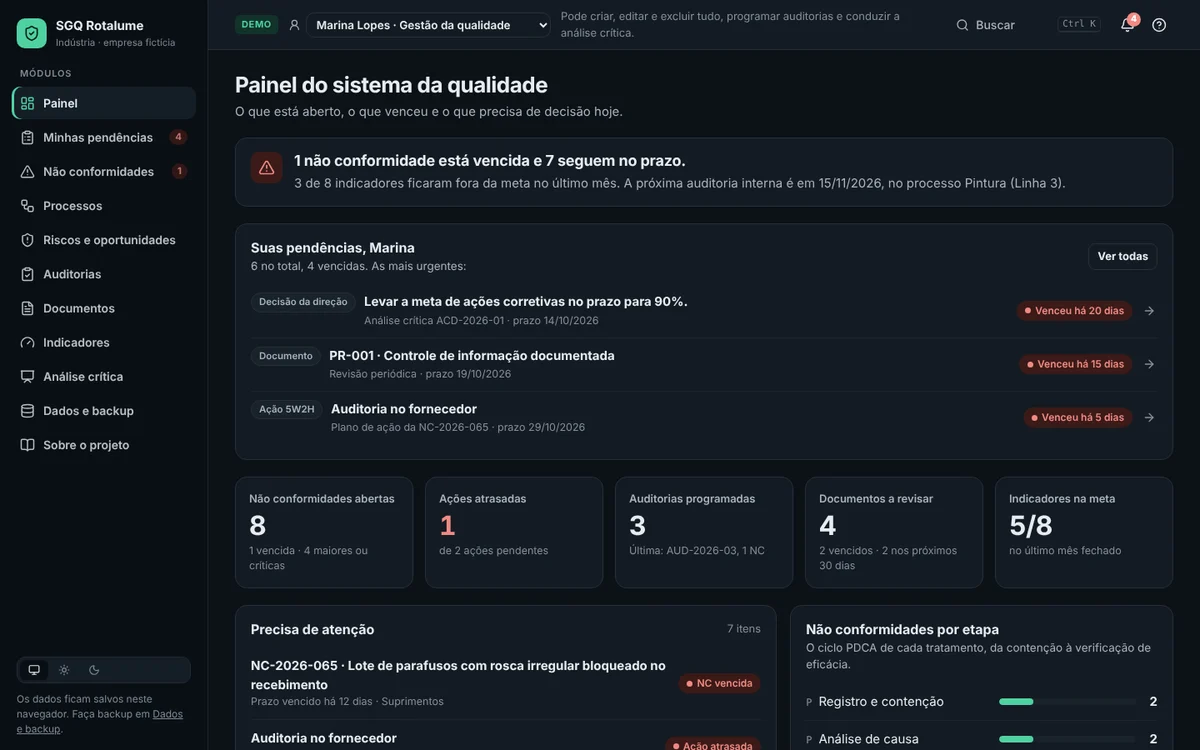
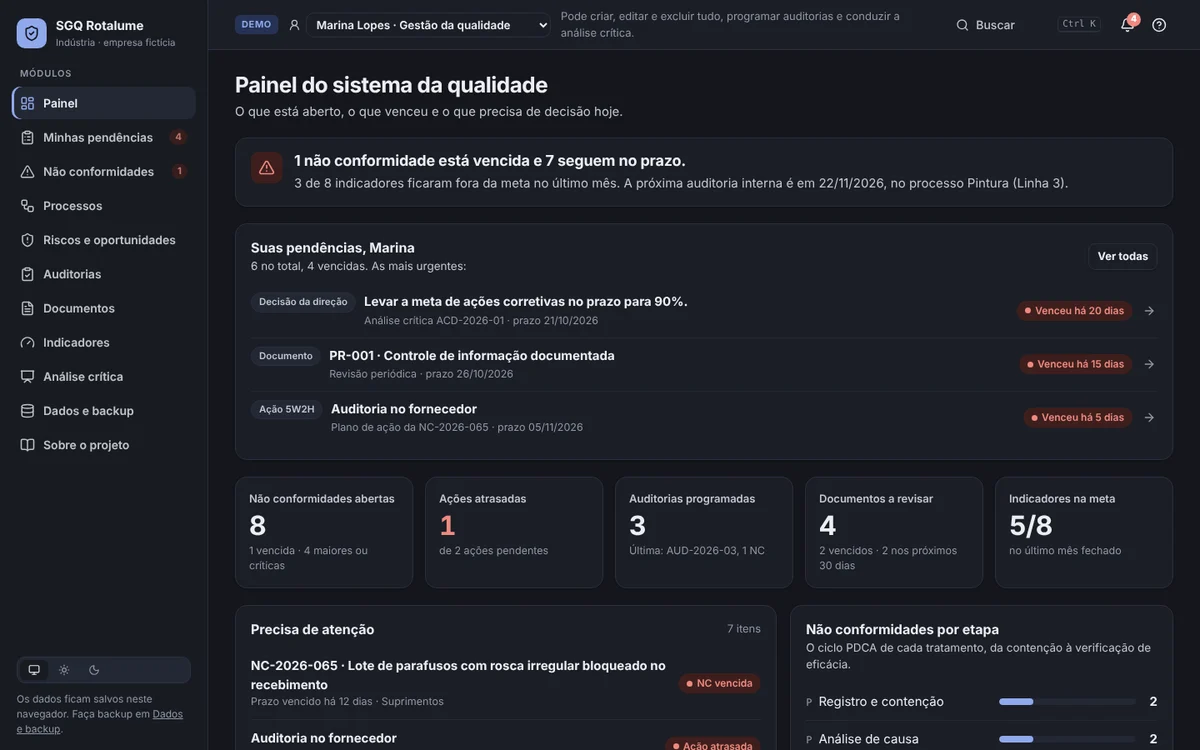
Adiciona o painel de Service Desk e atualiza as imagens dos projetos
Service Desk entra no fim da lista de projetos. Imagens de qualidade,
logística e SGQ refeitas com a nova identidade visual da Rotalume.

Claude-Session: https://claude.ai/code/session_013ScHhcjfMfb2SFCajT6Cio

diff --git a/src/content.ts b/src/content.ts
@@ -10,6 +10,8 @@ import qLight from '@/assets/projects/qualidade-light.webp';
 import qDark from '@/assets/projects/qualidade-dark.webp';
 import sgqLight from '@/assets/projects/sgq-light.webp';
 import sgqDark from '@/assets/projects/sgq-dark.webp';
+import sdLight from '@/assets/projects/servicedesk-light.webp';
+import sdDark from '@/assets/projects/servicedesk-dark.webp';
 
 export type Language = 'pt' | 'en';
 
@@ -29,6 +31,8 @@ export const LINKS = {
   repoLogistica: 'https://github.com/Oberon-23/painel-logistica-rotalume',
   sgq: 'https://sqgrotalume.vercel.app',
   repoSgq: 'https://github.com/Oberon-23/SGQ-Rotalume',
+  painelServiceDesk: 'https://painel-servicedesk-rotalume.vercel.app',
+  repoServiceDesk: 'https://github.com/Oberon-23/painel-servicedesk-rotalume',
 };
 
 export const PHOTO = breno;
@@ -65,6 +69,7 @@ const IMG = {
   log: { light: logLight, dark: logDark },
   q: { light: qLight, dark: qDark },
   sgq: { light: sgqLight, dark: sgqDark },
+  sd: { light: sdLight, dark: sdDark },
 };
 
 export const CONTENT: Record<Language, Content> = {
@@ -150,7 +155,7 @@ export const CONTENT: Record<Language, Content> = {
           title: 'Qualidade e processos',
           question: 'A fábrica está eficiente? O processo está estável? Quais defeitos atacar primeiro?',
           description: 'OEE em cascata, cartas de controle X̄-R com regras de Western Electric, Pareto de defeitos e quadro PDCA de ações corretivas.',
-          tags: ['CEP', 'OEE', 'Pareto', 'PDCA', 'ISO 9001'],
+          tags: ['CEP', 'OEE', 'Pareto', 'PDCA', 'ISO 9001', 'React'],
           links: [
             { label: 'Abrir painel', href: LINKS.painelQualidade, kind: 'demo' },
             { label: 'GitHub', href: LINKS.repoQualidade, kind: 'github' },
@@ -185,7 +190,7 @@ export const CONTENT: Record<Language, Content> = {
           title: 'Logística: nível de serviço e falhas de entrega',
           question: 'As entregas chegam no prazo e completas? Onde e por que o processo falha?',
           description: 'Painel de nível de serviço (OTIF), prazo, custo de frete e produtividade de 3 centros de distribuição e 5 transportadoras, com uma frase no topo que diz onde está o problema.',
-          tags: ['OTIF', 'Indicadores de processo', 'Análise de falhas', 'Chart.js'],
+          tags: ['OTIF', 'Indicadores de processo', 'Análise de falhas', 'React', 'TypeScript'],
           links: [
             { label: 'Abrir painel', href: LINKS.painelLogistica, kind: 'demo' },
             { label: 'GitHub', href: LINKS.repoLogistica, kind: 'github' },
@@ -195,6 +200,24 @@ export const CONTENT: Record<Language, Content> = {
           details: [
             { heading: 'O que foi feito', items: ['OTIF (no prazo e completo) como indicador principal, em vez de só atraso médio: pune tanto o atraso quanto a entrega incompleta.', 'Frete sobre o valor transportado e custo por kg, por região e por transportadora, ao lado da produtividade de cada CD (linhas separadas por hora), para não reduzir custo escondendo perda de produtividade.', 'Motivos de falha, avarias e estoque, com filtros de período, CD e região.'] },
             { heading: 'Cenários simulados', items: ['Uma transportadora barata, mas que mais atrasa: a decisão real entre custo e confiabilidade.', 'Troca de sistema de armazém (WMS) em um CD, com queda temporária de produtividade, pico de Black Friday e alta do diesel.'] },
+          ],
+        },
+        {
+          id: 'servicedesk',
+          category: 'Dashboard · Qualidade do atendimento',
+          title: 'Service Desk: prazos, fila e satisfação',
+          question: 'Os chamados são resolvidos no prazo? O que está para vencer e do que os usuários reclamam?',
+          description: 'Painel de central de serviço com SLA de resposta e resolução, fila com prazo consumido, desempenho por analista e comentários da pesquisa de satisfação agrupados em temas com ação sugerida.',
+          tags: ['ITIL 4', 'SLA', 'CSAT', 'PDCA', 'React', 'TypeScript'],
+          links: [
+            { label: 'Abrir painel', href: LINKS.painelServiceDesk, kind: 'demo' },
+            { label: 'GitHub', href: LINKS.repoServiceDesk, kind: 'github' },
+          ],
+          image: { ...IMG.sd, alt: 'Visão geral do painel de Service Desk com prazos, satisfação e canais' },
+          badge: 'Dados fictícios',
+          details: [
+            { heading: 'O que foi feito', items: ['SLA de resposta e de resolução por prioridade, mediana do tempo de resolução, resolução no primeiro contato (FCR), reabertura e CSAT, como na prática de ITIL 4.', 'Fila com o quanto do prazo cada chamado já consumiu e mapa de calor da chegada por dia e hora, para agir antes de vencer e montar a escala.', 'Comentários da pesquisa agrupados em temas, cada um com uma ação de melhoria sugerida, e um assistente que responde perguntas comuns com os próprios números do painel.'] },
+            { heading: 'Cenários simulados', items: ['Migração de e-mail que dobra os chamados e derruba a satisfação.', 'Portal de autoatendimento que reduz os chamados de senha, e uma queda de VPN com 64 chamados em uma manhã.'] },
           ],
         },
       ],
@@ -311,7 +334,7 @@ export const CONTENT: Record<Language, Content> = {
           title: 'Quality and processes',
           question: 'Is the plant efficient? Is the process stable? Which defects should we tackle first?',
           description: 'Cascading OEE, X̄-R control charts with Western Electric rules, defect Pareto and a PDCA board of corrective actions.',
-          tags: ['SPC', 'OEE', 'Pareto', 'PDCA', 'ISO 9001'],
+          tags: ['SPC', 'OEE', 'Pareto', 'PDCA', 'ISO 9001', 'React'],
           links: [
             { label: 'Open dashboard', href: LINKS.painelQualidade, kind: 'demo' },
             { label: 'GitHub', href: LINKS.repoQualidade, kind: 'github' },
@@ -346,7 +369,7 @@ export const CONTENT: Record<Language, Content> = {
           title: 'Logistics: service level and delivery failures',
           question: 'Do deliveries arrive on time and in full? Where and why does the process fail?',
           description: 'Service level (OTIF), lead time, freight cost and productivity dashboard for 3 distribution centers and 5 carriers, with a sentence on top that says where the problem is.',
-          tags: ['OTIF', 'Process KPIs', 'Failure analysis', 'Chart.js'],
+          tags: ['OTIF', 'Process KPIs', 'Failure analysis', 'React', 'TypeScript'],
           links: [
             { label: 'Open dashboard', href: LINKS.painelLogistica, kind: 'demo' },
             { label: 'GitHub', href: LINKS.repoLogistica, kind: 'github' },
@@ -356,6 +379,24 @@ export const CONTENT: Record<Language, Content> = {
           details: [
             { heading: 'What was built', items: ['OTIF (on time, in full) as the main KPI instead of average delay alone: it penalizes both late and incomplete deliveries.', 'Freight as a share of shipped value and cost per kg, by region and carrier, next to each DC\'s productivity (lines picked per hour), so costs are not cut by hiding a productivity drop.', 'Failure reasons, damage and inventory, with period, DC and region filters.'] },
             { heading: 'Simulated scenarios', items: ['A cheap carrier that is late most often: the real trade-off between cost and reliability.', 'A warehouse management system (WMS) migration at one DC with a temporary productivity drop, a Black Friday peak and a diesel price increase.'] },
+          ],
+        },
+        {
+          id: 'servicedesk',
+          category: 'Dashboard · Service quality',
+          title: 'Service Desk: deadlines, queue and satisfaction',
+          question: 'Are tickets resolved on time? What is about to breach, and what do users complain about?',
+          description: 'Service desk dashboard with response and resolution SLA, a queue showing how much of each deadline is used up, per-analyst performance and satisfaction-survey comments grouped into themes with a suggested action.',
+          tags: ['ITIL 4', 'SLA', 'CSAT', 'PDCA', 'React', 'TypeScript'],
+          links: [
+            { label: 'Open dashboard', href: LINKS.painelServiceDesk, kind: 'demo' },
+            { label: 'GitHub', href: LINKS.repoServiceDesk, kind: 'github' },
+          ],
+          image: { ...IMG.sd, alt: 'Service Desk dashboard overview with SLA, satisfaction and channels' },
+          badge: 'Fictional data',
+          details: [
+            { heading: 'What was built', items: ['Response and resolution SLA by priority, median resolution time, first contact resolution (FCR), reopen rate and CSAT, following ITIL 4 practice.', 'A queue showing how much of each deadline is used up and a heat map of arrivals by weekday and hour, to act before breaches and plan staffing.', 'Survey comments grouped into themes, each with a suggested improvement, and an assistant that answers common questions with the dashboard\'s own numbers.'] },
+            { heading: 'Simulated scenarios', items: ['An e-mail migration that doubles tickets and drops satisfaction.', 'A self-service portal that cuts password tickets, and a VPN outage with 64 tickets in one morning.'] },
           ],
         },
       ],
